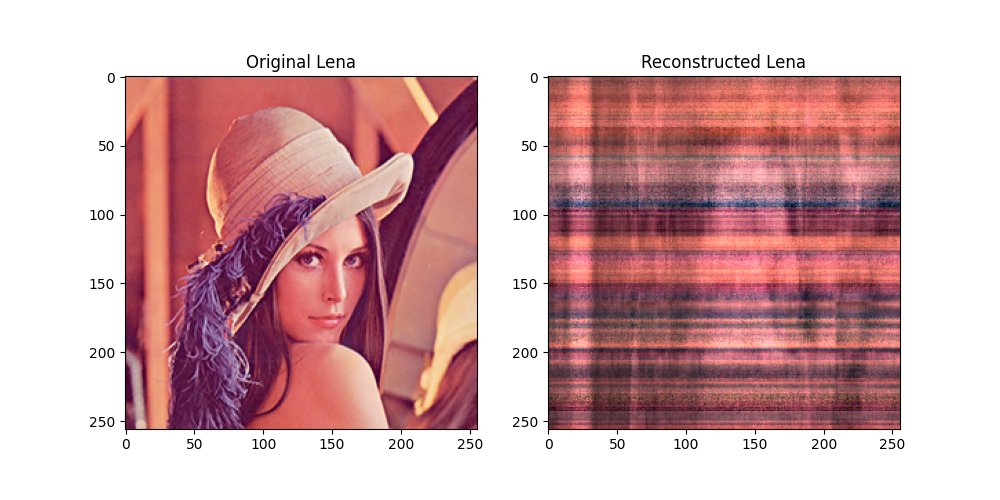
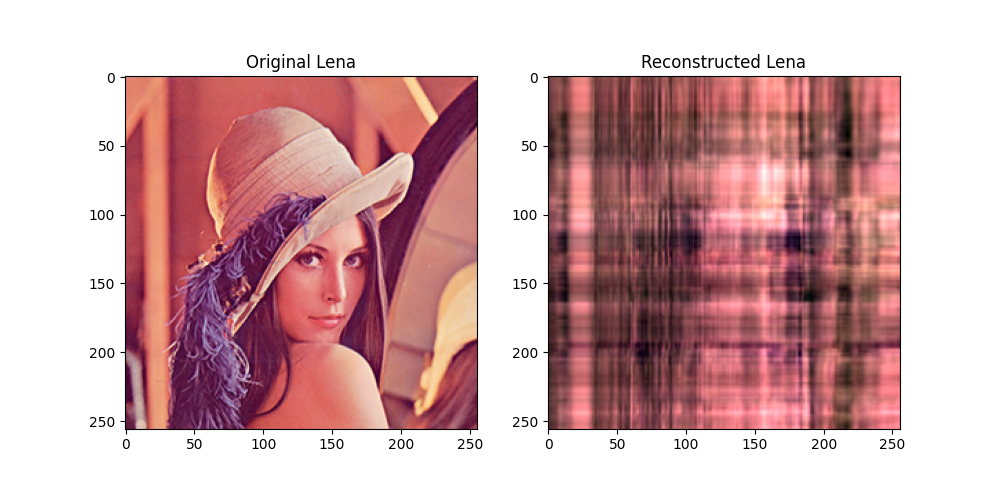
modified:   AT_TD/TR_ALS_test.py 	modified:   lena_comparison.png

Changed region(s): [[0.527, 0.15, 0.899, 0.87]]

diff --git a/AT_TD/TR_ALS_test.py b/AT_TD/TR_ALS_test.py
@@ -44,9 +44,6 @@ def show_images_pillow(image1, title1, image2, title2):
     img1.show(title=title1)
     img2.show(title=title2)
 
-import torch
-import tensorly as tl
-from tensorly.base import unfold, fold
 
 # 将 Tensorly backend 设置为 PyTorch
 tl.set_backend('pytorch')
@@ -79,7 +76,8 @@ def generalized_k_contraction(X, Y, modes_X, modes_Y, k):
     sorted_dims_Y = [Y.shape[i] for i in modes_Y[k+1:]]
     # 将矩阵重新折叠回张量
     new_shape = sorted_dims_X + sorted_dims_Y
-    result = fold(contracted, mode=0, shape=new_shape)
+    # result = fold(contracted, mode=0, shape=new_shape)
+    result = contracted.reshape(new_shape)
 
     return result
 
@@ -115,10 +113,6 @@ def contract_except_n(cores, n):
     result = torch.tensor(full_tensor, dtype=torch.float32).to(cores[0].device)
 
     return result
-
-
-import torch
-import tensorly as tl
 
 def generalized_k_unfolding(X, modes, k):
     """
@@ -164,16 +158,22 @@ def als_update_tr(X, cores, n, device):
     X_hat_unfold = generalized_k_unfolding(X_hat, new_dims, 1)
     X_hat_unfold_T = X_hat_unfold.T
 
-    # 计算新的 cores[n]
-    X_unfold = unfold(X, n)
+    X_dims= list(range(X.dim()))
+    X_dims.insert(0, X_dims.pop(n))
+    # X_unfold = unfold(X, n)
+    X_unfold = generalized_k_unfolding(X, X_dims, 0)
     X_unfold = torch.tensor(X_unfold, dtype=torch.float32).to(device)
     X_unfold_T = X_unfold.T
 
-    new_core = torch.linalg.lstsq(X_hat_unfold_T, X_unfold_T).solution 
-    new_core = new_core.T
+    # new_core = torch.linalg.lstsq(X_hat_unfold_T, X_unfold_T).solution 
+    # new_core = new_core.T
+    new_core = X_unfold@torch.linalg.pinv(X_hat_unfold)
+
+    # new_core2 = X_unfold@torch.linalg.pinv(X_hat_unfold)
+    # rse_core1_core2 = torch.norm(new_core - new_core2)
 
     new_core = new_core.reshape(cores[n].shape[1], cores[n].shape[0], cores[n].shape[2])
-    permuted_new_core = new_core.permute(*[1,0,2])
+    permuted_new_core = new_core.permute(1,0,2)
     return permuted_new_core
 
 def tr_decompose(X, ranks, max_iter=500, tol=1e-10, device="cuda"):
@@ -218,16 +218,16 @@ if __name__ == "__main__":
     # 读取 Lena 图片
     lena = Image.open('lena.png')
     lena = np.array(lena)
-    lena = torch.tensor(lena, dtype=torch.float32)
+    lena = torch.tensor(lena/255.0, dtype=torch.float32)
 
     # 输入张量和秩
     shape = lena.shape
     print("lena_shape", shape)
-    ranks = [5, 5, 3]  # 注意，ranks 的长度应该是 len(shape) + 1
+    ranks = [4, 5, 6]  # 注意，ranks 的长度应该是 len(shape) + 1
     ranks = ranks + [ranks[0]]  # 最后一个 rank 应该等于第一个 rank
 
     # TR 分解
-    tr_cores = tr_decompose(lena, ranks, max_iter=200, tol=1e-10, device="cuda")
+    tr_cores = tr_decompose(lena, ranks, max_iter=10, tol=1e-10, device="cuda")
     print("TR decomposition completed!")
     for i, core in enumerate(tr_cores):
         print(f"Core {i}: Shape {core.shape}")
@@ -240,11 +240,11 @@ if __name__ == "__main__":
     plt.figure(figsize=(10, 5))
     plt.subplot(1, 2, 1)
     plt.title('Original Lena')
-    plt.imshow(lena.cpu().numpy()/255, cmap='gray')
+    plt.imshow(lena.cpu().numpy(), cmap='gray')
     plt.show()
     plt.subplot(1, 2, 2)
     plt.title('Reconstructed Lena')
-    plt.imshow(lena_reconstructed/255, cmap='gray')
+    plt.imshow(lena_reconstructed, cmap='gray')
 
     # 保存图片到文件
     plt.savefig('lena_comparison.png')
